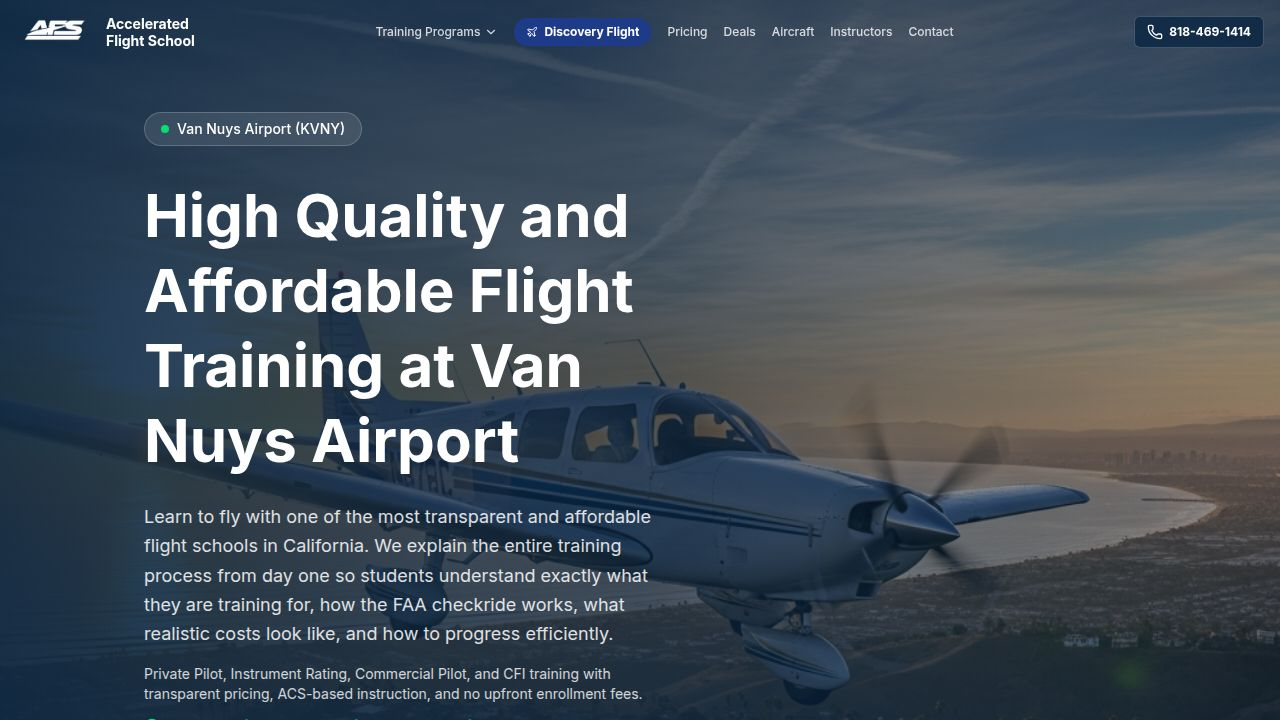
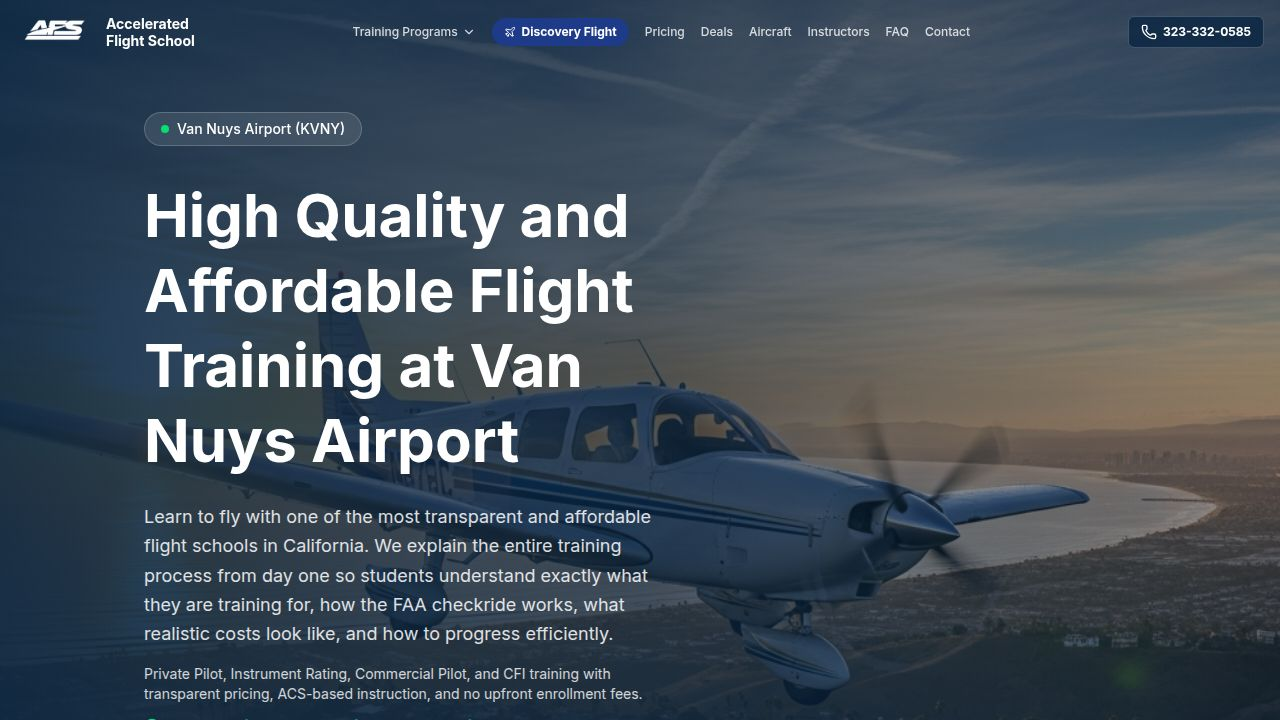
Update website with new contact information and email functionality
Update phone numbers and email addresses across the site. Implement contact form email sending via Zoho SMTP and add an error handling state. Update memory and documentation regarding email DNS configuration and SPA rendering behavior.

Replit-Commit-Author: Agent
Replit-Commit-Session-Id: fe40bb86-8b56-4cc0-ae25-7271b7895224
Replit-Commit-Checkpoint-Type: full_checkpoint
Replit-Commit-Event-Id: 8e3a6431-86f8-4075-83ac-2aea549be50e
Replit-Commit-Screenshot-Url: https://storage.googleapis.com/screenshot-production-us-central1/a5c53548-6f46-48c8-ad1a-b301d587ddff/fe40bb86-8b56-4cc0-ae25-7271b7895224/i8jNkiU
Replit-Helium-Checkpoint-Created: true

Changed region(s): [[0.2812, 0.0306, 0.75, 0.0611], [0.875, 0.0306, 0.9688, 0.0611]]

diff --git a/artifacts/flight-school/src/pages/ContactPage.tsx b/artifacts/flight-school/src/pages/ContactPage.tsx
@@ -232,6 +232,13 @@ export function ContactPage() {
                         )}
                       />
 
+                      {submitContact.isError && (
+                        <div className="rounded-lg border border-red-200 bg-red-50 p-4 text-sm text-red-700">
+                          Something went wrong sending your message. Please call or text us at{" "}
+                          <a href="tel:323-332-0585" className="font-bold underline">323-332-0585</a> and we'll help you right away.
+                        </div>
+                      )}
+
                       <Button 
                         type="submit" 
                         className="w-full h-12 text-lg font-bold" 

diff --git a/.agents/memory/flight-school-email-dns.md b/.agents/memory/flight-school-email-dns.md
@@ -1,0 +1,39 @@
+---
+name: Flight school contact email & domain DNS
+description: How contact-form email delivery works, the Zoho inbox DNS dependency, and why page meta isn't in view-source for this SPA.
+---
+
+# Contact form email delivery
+
+The flight-school contact form sends inquiries by email (no DB storage) via **Zoho SMTP**
+(`smtppro.zoho.com`) authenticated as `[email redacted]`, delivered to that
+same address. Config is env-driven: `SMTP_HOST/SMTP_PORT/SMTP_USER/CONTACT_TO_EMAIL` (shared
+env vars) + `SMTP_PASSWORD` (secret). Implementation in `artifacts/api-server/src/lib/mailer.ts`.
+
+**Why email, not DB:** user explicitly chose "email me instantly" over admin-panel storage.
+
+# DNS dependency for receiving mail (NOT derivable from code)
+
+Sending from the form works regardless of MX because sender+recipient are the same Zoho
+account. But for the `fly@` mailbox to receive mail from the **outside world** (e.g. prospect
+replies), GoDaddy DNS must have **Zoho MX + SPF**, which **conflict with the pre-existing
+Mailgun MX/SPF** that were on the domain. Replacing them is required:
+- Delete Mailgun: MX `mxa.mailgun.org`/`mxb.mailgun.org` (pri 60) and TXT SPF `include:mailgun.org`.
+- Add Zoho: MX `mx.zoho.com` (10), `mx2.zoho.com` (20), `mx3.zoho.com` (50); TXT SPF `v=spf1 include:zohomail.com ~all`; plus Zoho's domain-verification TXT/DKIM from their setup wizard.
+- Keep the `replit-verify` TXT and the apex A record `34.111.179.208`.
+
+# Domain pointing (acceleratedflightschool.net)
+
+GoDaddy is authoritative (ns15/ns16.domaincontrol.com). Apex A → `34.111.179.208` (Replit).
+When the site "won't load" after a DNS change, check the **authoritative** answer directly
+(query ns15/ns16 via node `dns.Resolver().setServers()`) vs the cached public answer — the
+classic cause is the old record still cached at its original TTL; lowering TTL only speeds
+*future* changes. `dig` is not installed; use node dns or Google DoH (`dns.google/resolve`).
+
+# Why page titles aren't in "View Page Source"
+
+This is a client-side-rendered SPA (React + Vite, no SSR). View-source shows the raw initial
+HTML (generic default title from `index.html`). Per-page titles/meta are set by
+`react-helmet-async` in JS after load — visible in the tab and live DOM, not in view-source.
+Google renders JS so it generally still sees them; non-JS crawlers/social bots won't. A fix
+would require SSR or build-time prerendering (a larger change, not yet done).

diff --git a/.agents/memory/MEMORY.md b/.agents/memory/MEMORY.md
@@ -1,2 +1,1 @@
-- [Orval zod codegen conflict](orval-zod-schemas.md) — removing `schemas` option from zod orval config prevents duplicate export conflict; remove stale types barrel after codegen.
-- [Admin session memory store](admin-session.md) — use express-session default memory store for single-admin panels; connect-pg-simple requires pre-created session table.
+- [Flight school email & DNS](flight-school-email-dns.md) — contact form sends via Zoho SMTP to fly@; inbox needs Zoho MX/SPF at GoDaddy (replace Mailgun); site is CSR SPA so meta isn't in view-source.